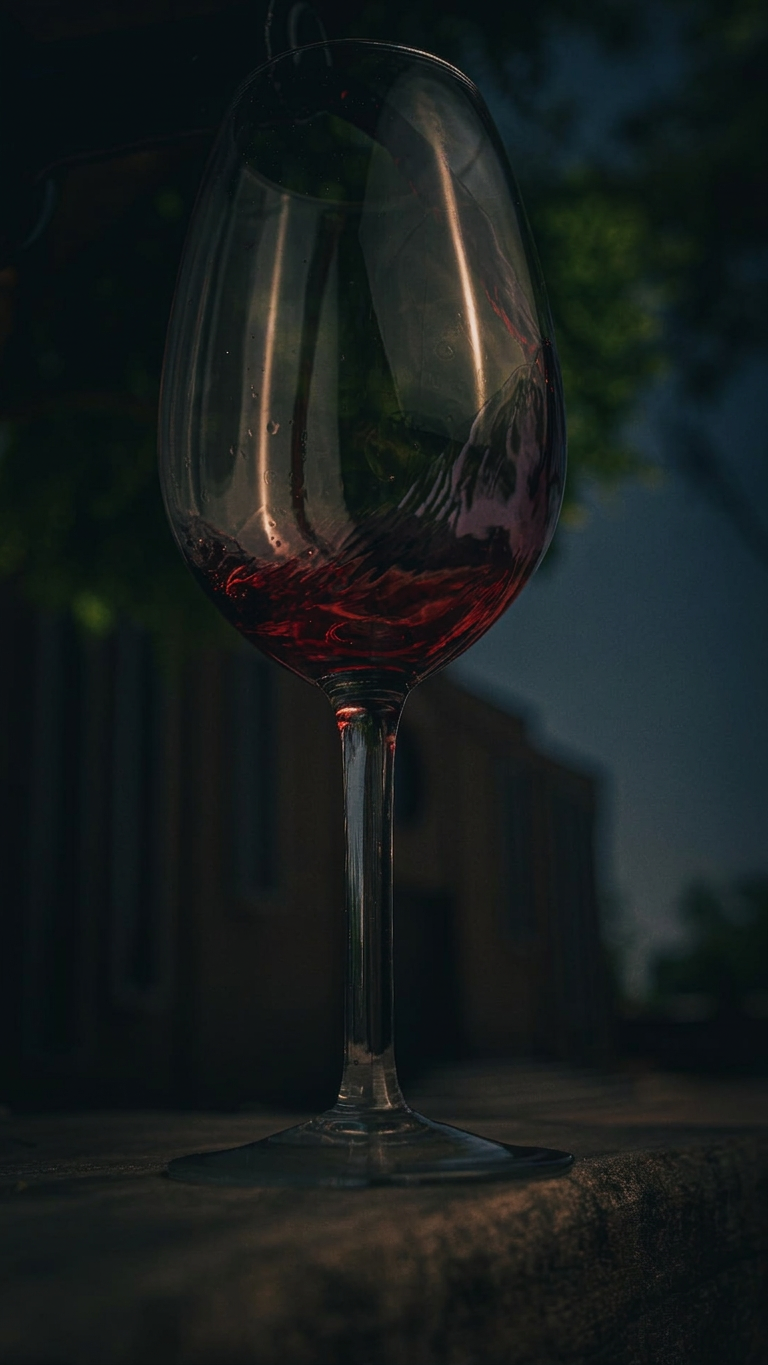
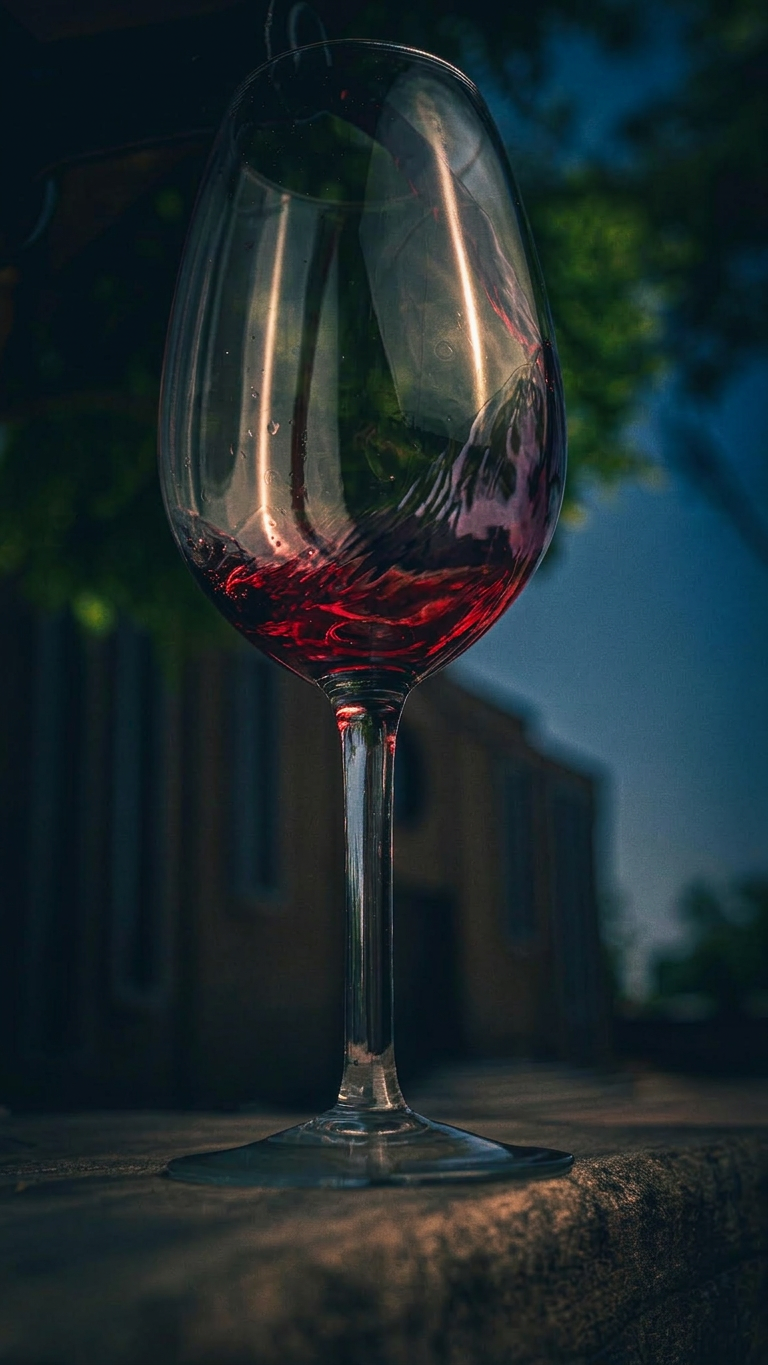
Ajustó slide 1 brillo y encuadre

diff --git a/src/pages/Index.tsx b/src/pages/Index.tsx
@@ -26,7 +26,7 @@ const Index = () => {
       <TextBlock
         image={sceneWineGlass}
         containImage
-        overlayOpacity={0.8}
+        overlayOpacity={0.55}
         lines={[
           "No es un vino.",
           "Es una forma de estar.",
